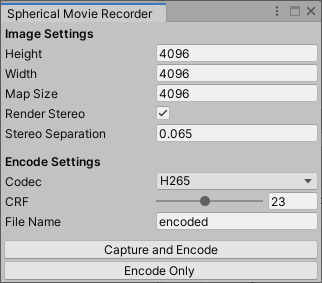
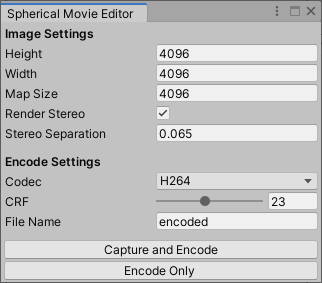
ウインドウ名間違えてた

Changed region(s): [[0.3106, 0.0, 0.528, 0.0848], [0.559, 0.6219, 0.5901, 0.6502]]

diff --git a/Assets/Scripts/RecorderWindow.cs b/Assets/Scripts/RecorderWindow.cs
@@ -10,7 +10,7 @@ namespace yutoVR.SphericalMovieEditor
         [MenuItem("Movie/Export...")]
         public static void Create()
         {
-            var window = GetWindow<RecorderWindow>("Spherical Movie Recorder");
+            var window = GetWindow<RecorderWindow>("Spherical Movie Editor");
             window.minSize = new Vector2(320, 254);
             window.maxSize = new Vector2(320, 254);
             window.autoRepaintOnSceneChange = true;
